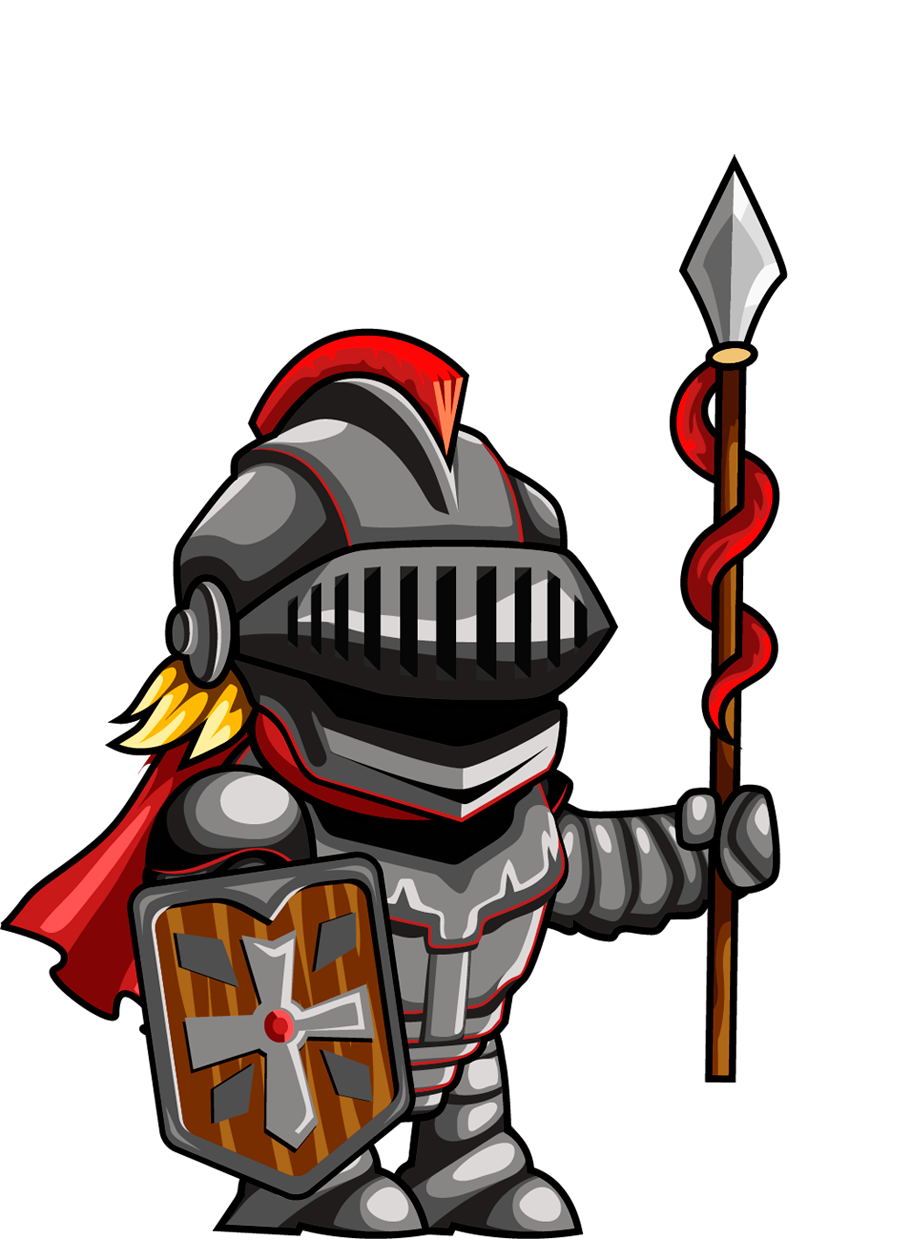
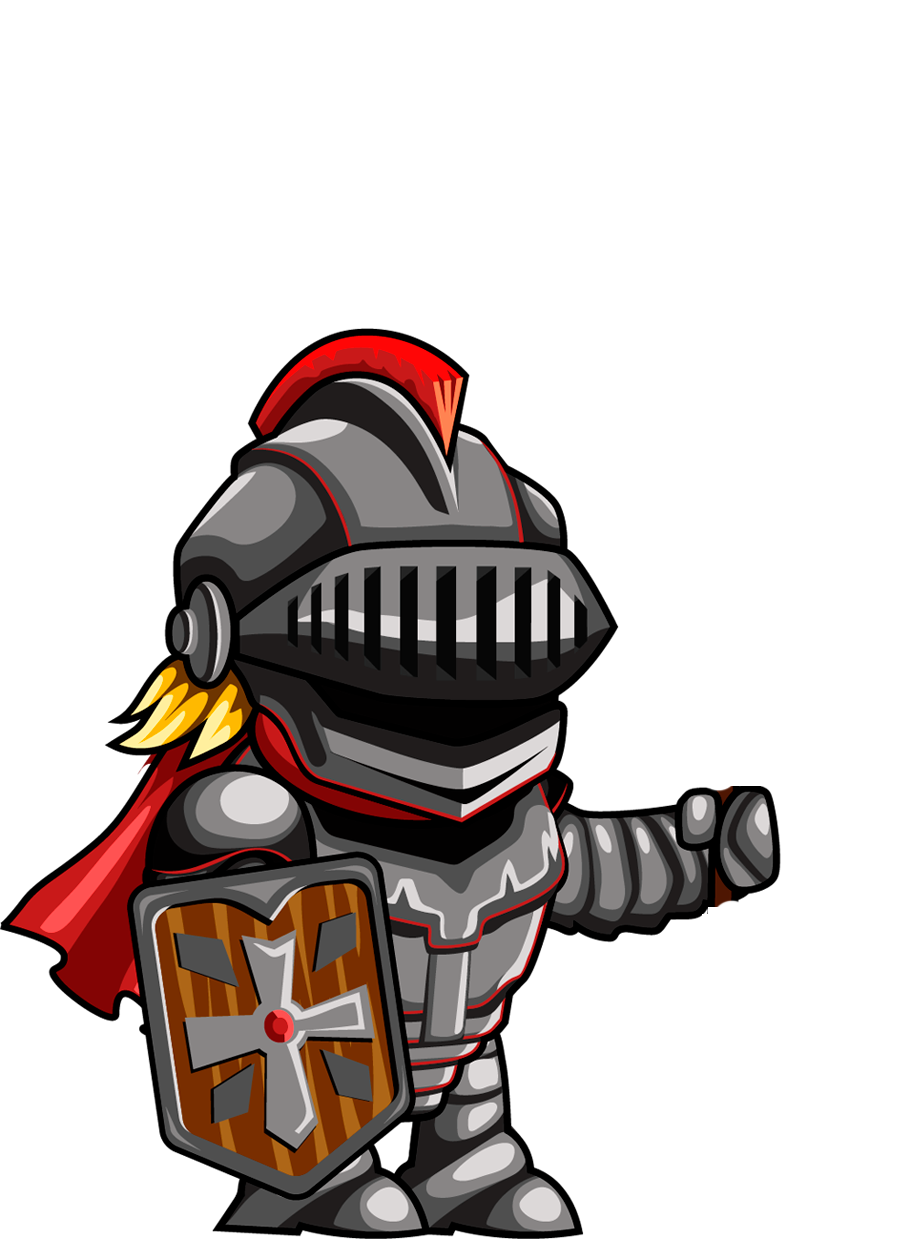
inventory ready

Changed region(s): [[0.7467, 0.1226, 0.8711, 0.6435], [0.7778, 0.7048, 0.84, 0.8887]]

diff --git a/src/components/CharacterScreen.vue b/src/components/CharacterScreen.vue
@@ -58,6 +58,7 @@ export default {
       characterEquipSlots: [
         {
           id: 1,
+          name: "empty",
           slotEmptyStatus: true,
           damage: 0,
           criticalDamage: 0,
@@ -66,6 +67,7 @@ export default {
         },
         {
           id: 2,
+          name: "empty",
           slotEmptyStatus: true,
           armor: 0,
           regeneration: 0,
@@ -100,16 +102,8 @@ export default {
   computed: {
     imageSrc() {
       let result = ""
-      for (let i = 0; i < 3; i++) {
-        config.weaponList.forEach(el => {
-          if(this.checkEquipItems(el, config.armorList[i])){
-            result = helpers.getImgUrl(`/character/${config.coupleOfEquip[el + config.armorList[i]]}.png`)
-          } else {
-            const currentEquip = String(this.characterEquipSlots[0].name) + String(this.characterEquipSlots[1].name)
-            result = helpers.getImgUrl(`/character/${config.coupleOfEquip[currentEquip]}.png`)
-          }
-        })
-      }
+      const currentEquip = String(this.characterEquipSlots[0].name) + String(this.characterEquipSlots[1].name)
+      result = helpers.getImgUrl(`/character/${config.coupleOfEquip[currentEquip]}.png`)
       return result
     }
   },
@@ -120,11 +114,11 @@ export default {
     },
 
     newItem(item) {
-    return { ...item };
+      return { ...item };
     },
 
     findEmptySlot(arr) {
-    return arr.find(el => el.slotEmptyStatus);
+      return arr.find(el => el.slotEmptyStatus);
     },
 
     newEmptySlot(item) {
@@ -158,7 +152,7 @@ export default {
       helpers.putInLocalStorage("inventoryList", this.inventorySlots)
     },
 
-    moveItemFromQuickInventoryToInventory(item) {
+    moveItemToInventory(item) {
       const emptySlotId = this.findEmptySlot(this.inventorySlots).id
       item.onQuickInventory = false;
       item.quickStatus = true;
@@ -210,7 +204,7 @@ export default {
       
     },
 
-    moveItemFromEquipToInventory(item) {
+    takeOffEquip(item) {
       const emptySlotId = this.findEmptySlot(this.inventorySlots).id
       this.inventorySlots = this.inventorySlots.map((el) => {
         if (el.id === emptySlotId) {
@@ -224,6 +218,7 @@ export default {
         }
       });
       this.characterEquipSlots[item.index] = {
+        name: "empty",
         id: [item.id],
         slotEmptyStatus: true,
         damage: 0,
@@ -250,16 +245,17 @@ export default {
       if (item.quickStatus && !item.onQuickInventory) {
         this.moveItemToQuickInventory(item)
       } else if (item.onQuickInventory) {
-        this.moveItemFromQuickInventoryToInventory(item)
+        this.moveItemToInventory(item)
       } else if (!item.isEquip) {
         this.equipWithAnItem(item)
       } else if (item.isEquip) {
-        this.moveItemFromEquipToInventory(item)
+        this.takeOffEquip(item)
       }
     },
 
     deleteItemFromEquipInventory(item) {
       this.characterEquipSlots[item.index] = {
+        name: "empty",
         id: [item.id],
         slotEmptyStatus: true,
         damage: 0,

diff --git a/src/data/config.js b/src/data/config.js
@@ -21,6 +21,16 @@ export default {
       key: "criticalDamage"
     },
   ],
+  characterProgress: [
+    {
+      name: "Level",
+      value: 1,
+    },
+    {
+      name: "Experience",
+      value: 0,
+    },
+  ],
   inventorySlots: [
     {
       id: 1,
@@ -164,7 +174,7 @@ export default {
     },
   ],
   coupleOfEquip: {
-    "undefinedundefined": "character0",
+    "emptyempty": "character0",
     "Knights SpearKnights Armor": "character1",
     "Executioner's AxeKnights Armor": "character2",
     "King SwordKnights Armor": "character3",
@@ -174,15 +184,15 @@ export default {
     "Knights SpearKing Armor": "character7",
     "Executioner's AxeKing Armor": "character8",
     "King SwordKing Armor": "character9",
-    "Knights Spearundefined": "character10",
-    "Executioner's Axeundefined": "character11",
-    "King Swordundefined": "character12",
-    "undefinedKnights Armor": "character13",
-    "undefinedExecutioners Armor": "character14",
-    "undefinedKing Armor": "character15",
+    "Knights Spearempty": "character10",
+    "Executioner's Axeempty": "character11",
+    "King Swordempty": "character12",
+    "emptyKnights Armor": "character13",
+    "emptyExecutioners Armor": "character14",
+    "emptyKing Armor": "character15",
   },
   armorList: ["Knights Armor", "Executioners Armor", "King Armor"],
-  weaponList: ["Knights Spear", "Executioner's Axe", "King Sword"]
+  weaponList: ["Knights Spear", "Executioner's Axe", "King Sword"],
 }
 
 

diff --git a/src/components/CharacterInformation.vue b/src/components/CharacterInformation.vue
@@ -8,6 +8,14 @@
       <div>{{  info.name  }}</div>
       <div>{{  info.value  }}</div>
     </div>
+    <div 
+    v-for="(value, index) in characterProgress" 
+    :key="index" 
+    class="information-container__text"
+    >
+      <div>{{  value.name  }}</div>
+      <div>{{  value.value  }}</div>
+    </div>
   </div>
 </template>
 
@@ -22,16 +30,18 @@ export default {
   },
   data() {
     return {
+      characterProgress: [],
       characterInformation: [],
       characteristic: ['damage', 'armor', 'regeneration', 'criticalDamage'],
     };
   },
   mounted() {
     this.characterInformation = config.basicCharacterStats
+    this.characterProgress = config.characterProgress
   },
   methods: {
     calculateIncreasedCharacteristics(items) {
-      const updatedCharacterCharacteristics = [];
+      const updatedCharacterCharacteristics = {};
       items.forEach(el => {
         for (let key in el) {
           if (this.characteristic.includes(key)) {

diff --git a/src/components/MapScreen.vue b/src/components/MapScreen.vue
@@ -1,12 +1,11 @@
 <template>
   <div class="map-screen">
-    <location-list @openModal="changeModalStatus" />
-    <the-map>
-      <selected-location 
+    <location-list @openModal="showModal" />
+    <selected-location 
       v-if="isModalActive"
-      @hideModal="changeModalStatus"
+      @hideModal="hideModal"
       />
-    </the-map>
+    <the-map />
     <div class="map-screen__map-legend">
       <div v-for="(indicator, index) in indicatorColors" :key="index" class="map-legend__list">
         <div
@@ -54,8 +53,11 @@ export default {
     };
   },
   methods: {
-    changeModalStatus() {
-      this.isModalActive = !this.isModalActive;
+    showModal() {
+      this.isModalActive = true;
+    },
+    hideModal() {
+      this.isModalActive = false;
     },
   },
 };
@@ -63,6 +65,7 @@ export default {
 
 <style scoped>
 .map-screen {
+  position: relative;
   display: flex;
   justify-content: center;
   margin-top: 38px;

diff --git a/src/components/SelectedLocation.vue b/src/components/SelectedLocation.vue
@@ -62,19 +62,19 @@ export default {
 
 <style scoped>
 .modal {
+  position: absolute;
   display: flex;
-  justify-content: center;
   align-items: center;
-  width: 100%;
-  height: 100%;
-  background: url(../images/map.png);
   border-radius: 15px;
+  z-index: 1;
+  top: 70px;
 }
 
 .modal__window {
   display: flex;
   flex-direction: column;
   align-items: center;
+  justify-content: center;
   gap: 25px;
   width: 897px;
   height: 736px;
